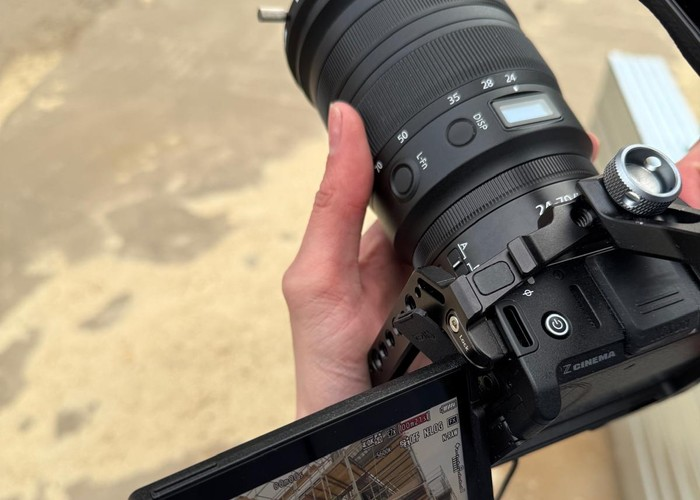
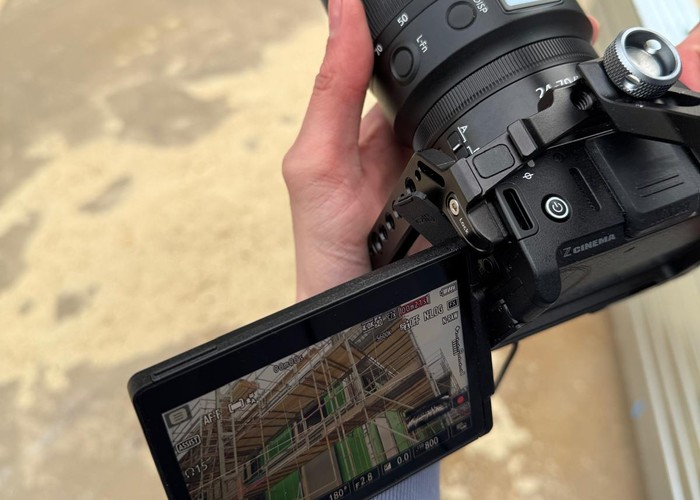
Add files via upload

diff --git a/index.html b/index.html
@@ -30,7 +30,7 @@
     @keyframes pulseRing{0%,100%{opacity:.4;transform:translate(-50%,-50%) scale(1)}50%{opacity:1;transform:translate(-50%,-50%) scale(1.04)}}
     .hero-content{position:relative;z-index:2}
     .hero-eyebrow{font-family:var(--font-display);font-size:.72rem;letter-spacing:.35em;text-transform:uppercase;color:var(--green);margin-bottom:1.4rem}
-    .hero-title{font-family:var(--font-display);font-size:clamp(3rem,9vw,7.5rem);font-weight:900;line-height:.95;text-transform:uppercase;letter-spacing:-.02em;margin-bottom:1.8rem}
+    .hero-title{font-family:var(--font-display);font-size:clamp(2.2rem,6vw,5rem);font-weight:900;line-height:.95;text-transform:uppercase;letter-spacing:-.02em;margin-bottom:1.8rem}
     .hero-title span{color:var(--green)}
     .hero-sub{font-size:clamp(.95rem,1.8vw,1.1rem);font-weight:300;color:var(--grey);max-width:520px;margin:0 auto 2.5rem}
     .hero-btns{display:flex;gap:1rem;justify-content:center;flex-wrap:wrap}